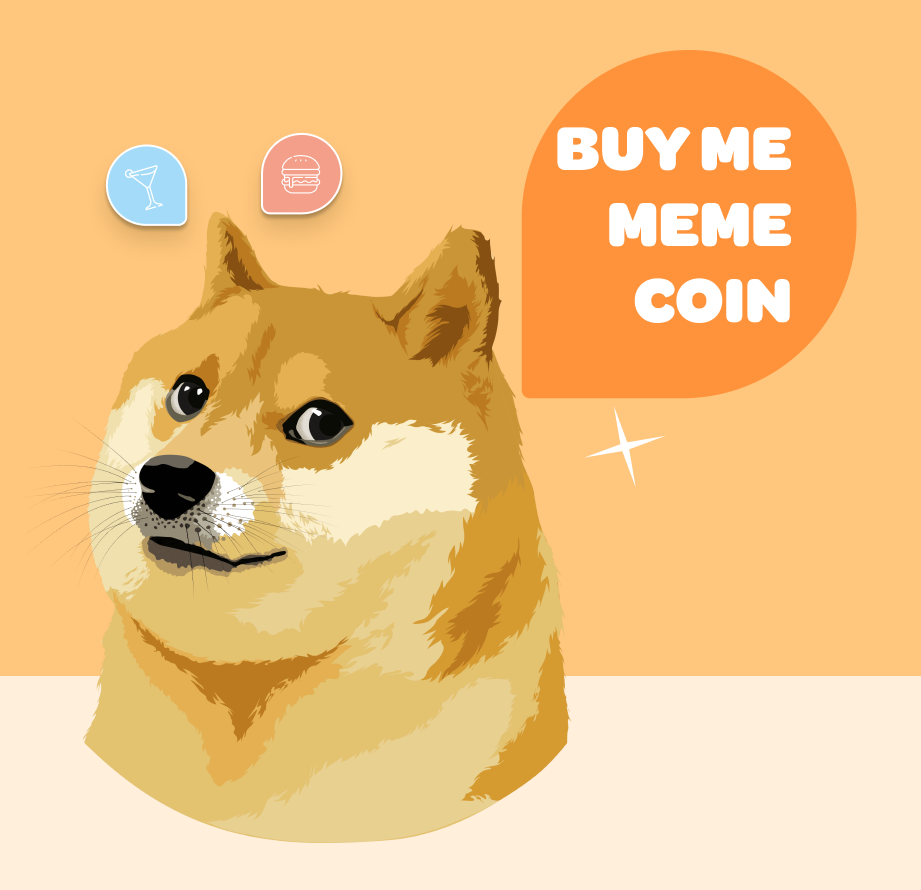
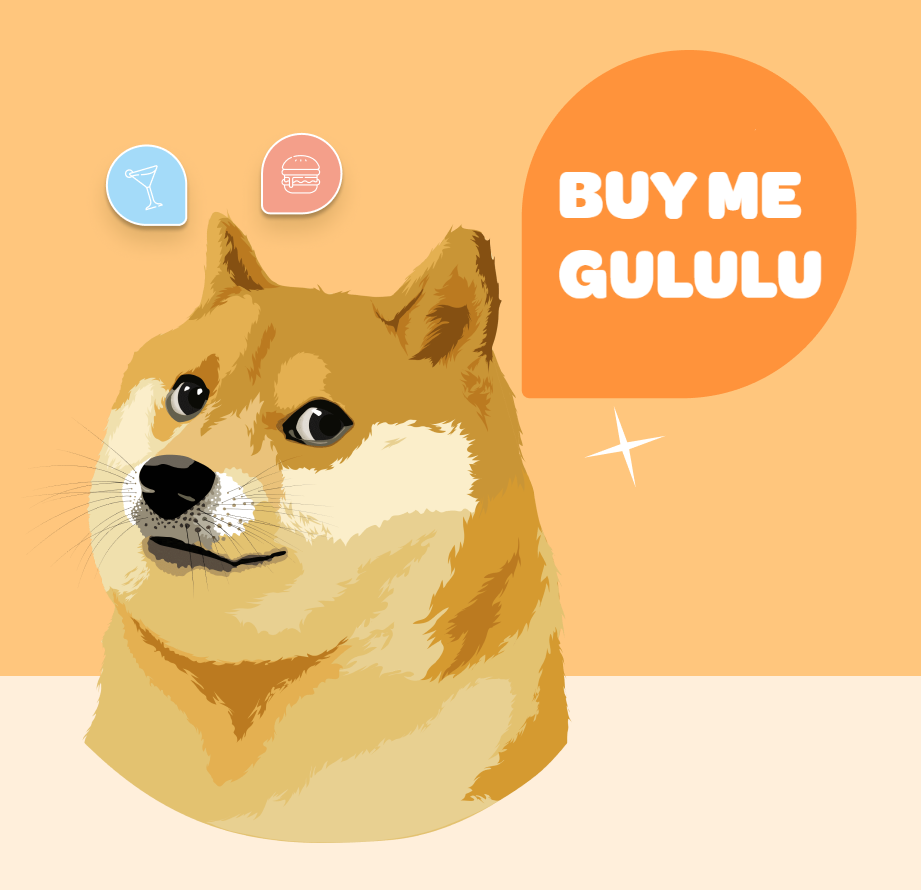
responsiveness

Changed region(s): [[0.5776, 0.1213, 0.9121, 0.364]]

diff --git a/components/pages/section4.js b/components/pages/section4.js
@@ -10,9 +10,9 @@ const Section4 = () => {
           <div className="relative flex flex-col bg-[#CFEEFF] md:w-[40rem] rounded-3xl md:py-20 md:px-[5.8rem] sm:p-16 p-8 z-10">
             <h3 className="md:text-5xl text-4xl font-omnesblack uppercase pb-6">Stage 1</h3>
             <p className="md:text-xl text-lg font-omnesreg font-semibold">
-              Utilising smart contracts powered by Ethereum, DOGE20 is much more
+              Utilising smart contracts powered by Ethereum, GULULU is much more
               than a meme coin and brings passive earning potential to the
-              community. Harness the power of your DOGE20 tokens by staking and
+              community. Harness the power of your GULULU tokens by staking and
               earning rewards, making your tokens work for you.
             </p>
 
@@ -75,9 +75,9 @@ const Section4 = () => {
           <div className="relative flex flex-col bg-[#CFEEFF] md:w-[40rem] rounded-3xl md:py-20 md:px-[5.8rem] sm:p-16 p-8 z-10">
             <h3 className="md:text-5xl text-4xl font-omnesblack uppercase pb-6">Stage 2</h3>
             <p className="md:text-xl text-lg font-omnesreg font-semibold">
-              Utilising smart contracts powered by Ethereum, DOGE20 is much more
+              Utilising smart contracts powered by Ethereum, GULULU is much more
               than a meme coin and brings passive earning potential to the
-              community. Harness the power of your DOGE20 tokens by staking and
+              community. Harness the power of your GULULU tokens by staking and
               earning rewards, making your tokens work for you.
             </p>
 
@@ -140,9 +140,9 @@ const Section4 = () => {
           <div className="relative flex flex-col bg-[#CFEEFF] md:w-[40rem] rounded-3xl md:py-20 md:px-[5.8rem] sm:p-16 p-8 z-10">
             <h3 className="md:text-5xl text-4xl font-omnesblack uppercase pb-6">Stage 3</h3>
             <p className="md:text-xl text-lg font-omnesreg font-semibold">
-              Utilising smart contracts powered by Ethereum, DOGE20 is much more
+              Utilising smart contracts powered by Ethereum, GULULU is much more
               than a meme coin and brings passive earning potential to the
-              community. Harness the power of your DOGE20 tokens by staking and
+              community. Harness the power of your GULULU tokens by staking and
               earning rewards, making your tokens work for you.
             </p>
             <Image
@@ -197,9 +197,9 @@ const Section4 = () => {
           <div className="relative flex flex-col bg-[#CFEEFF] md:w-[40rem] rounded-3xl md:py-20 md:px-[5.8rem] sm:p-16 p-8 z-10">
             <h3 className="md:text-5xl text-4xl font-omnesblack uppercase pb-6">Stage 4</h3>
             <p className="md:text-xl text-lg font-omnesreg font-semibold">
-              Utilising smart contracts powered by Ethereum, DOGE20 is much more
+              Utilising smart contracts powered by Ethereum, GULULU is much more
               than a meme coin and brings passive earning potential to the
-              community. Harness the power of your DOGE20 tokens by staking and
+              community. Harness the power of your GULULU tokens by staking and
               earning rewards, making your tokens work for you.
             </p>
 

diff --git a/components/pages/section2.js b/components/pages/section2.js
@@ -6,11 +6,11 @@ const Section2 = () => {
     <div className="flex flex-col  xl:px-24 px-8 py-[4.8rem] items-center justify-center bg-[#FFC8BA]">
       <div className="flex flex-col items-center justify-center">
         <div className="md:text-5xl text-4xl text-center font-omnes uppercase">
-          Our Doge just got more rewarding
+          Our GULULU just got more rewarding
         </div>
         <div className="text-xl font-semibold text-center font-omnesreg py-[2.8rem] xl:px-64 md:px-12 px-2">
-         <p> Prepare for the ultimate Doge upgrade! We&apos;re sending Elon&apos;s fave
-          towards a more sustainable future. Stake DOGE20 today to start earning
+         <p> Prepare for the ultimate GULULU upgrade! We&apos;re sending Elon&apos;s fave
+          towards a more sustainable future. Stake GULULU today to start earning
           eco-friendly rewards.
           </p>
         </div>
@@ -63,9 +63,9 @@ const Section2 = () => {
                 Good Boy Staking!
               </h3>
               <p className="text-xl font-omensreg font-bold ">
-                Utilising smart contracts powered by Ethereum, DOGE20 is much
+                Utilising smart contracts powered by Ethereum, GULULU is much
                 more than a meme coin and brings passive earning potential to
-                the community. Harness the power of your DOGE20 tokens by
+                the community. Harness the power of your GULULU tokens by
                 staking and earning rewards, making your tokens work for you.
               </p>
             </div>
@@ -109,9 +109,9 @@ const Section2 = () => {
                 Good Boy Staking!
               </h3>
               <p className="text-xl font-omensreg font-bold ">
-                Utilising smart contracts powered by Ethereum, DOGE20 is much
+                Utilising smart contracts powered by Ethereum, GULULU is much
                 more than a meme coin and brings passive earning potential to
-                the community. Harness the power of your DOGE20 tokens by
+                the community. Harness the power of your GULULU tokens by
                 staking and earning rewards, making your tokens work for you.
               </p>
             </div>
@@ -155,9 +155,9 @@ const Section2 = () => {
                 Good Boy Staking!
               </h3>
               <p className="text-xl font-omensreg font-bold ">
-                Utilising smart contracts powered by Ethereum, DOGE20 is much
+                Utilising smart contracts powered by Ethereum, GULULU is much
                 more than a meme coin and brings passive earning potential to
-                the community. Harness the power of your DOGE20 tokens by
+                the community. Harness the power of your GULULU tokens by
                 staking and earning rewards, making your tokens work for you.
               </p>
             </div>

diff --git a/components/pages/section1.js b/components/pages/section1.js
@@ -45,7 +45,7 @@ const Section1 = () => {
                 className=" absolute sm:w-20 w-14 sm:-left-0 -left-14 sm:top-0 top-8 "
               />
               <h1 className="md:text-[3.5rem] sm:text-5xl text-[2.3rem] text-center font-omnesblack sm:pb-7 sm:leading-[4.7rem]">
-                HI, MY NAME IS <br /> MEMECOIN
+                HI, MY NAME IS <br /> GULULU
               </h1>
             </div>
 
@@ -60,24 +60,24 @@ const Section1 = () => {
           <div className="flex flex-col justify-between ">
             <div>
               <h3 className="sm:px-24 px-4 font-omnes text-center leading-7 text-2xl ">
-                MEMECOIN launches on doge day! Last <br /> chance to buy!
+                GULULU launches on doge day! Last <br /> chance to buy!
               </h3>
               <Countdown />
               <h3 className="text-center text-xl font-omnes font-bold my-6 ">
-                Till DOGE20 claim and launch
+                Till GULULU claim and launch
               </h3>
               <h3 className="text-center text-2xl font-omnesblack leading-3 my-3">
                 Over $10M raised!
               </h3>
               <div className="flex items-center justify-center sm:gap-6 gap-2 sm:ml-8 ml-2 ">
                 <h3 className="text-center text-xl font-omnes my-3 font-bold ">
-                  Your purchased DOGE20 = 0
+                  Your purchased GULULU = 0
                 </h3>
                 <Image src={"/i.svg"} alt="i" width={22} height={22} className=" w-7"/>
               </div>
               <div className="flex items-center justify-center sm:gap-6 gap-2 sm:ml-8 ml-2">
                 <h3 className="text-center text-xl font-omnes my-1 font-bold ">
-                  Your stakeable DOGE20 = 0
+                  Your stakeable GULULU = 0
                 </h3>
                 <Image src={"/i.svg"} alt="i" width={22} height={22}  className=" w-7"/>
               </div>

diff --git a/components/pages/section9.js b/components/pages/section9.js
@@ -9,8 +9,8 @@ const Section9 = () => {
       </div>
 
       <p className="text-xl font-semibold text-center font-omnesreg pb-[4rem] xl:px-[20rem] px-4">
-        Dogecoin20 offers a new passive rewards opportunity to the meme coin
-        scene but could also benefit from token price appreciation. DOGE20 has a
+        GULULU offers a new passive rewards opportunity to the meme coin
+        scene but could also benefit from token price appreciation. GULULU has a
         fully diluted starting market cap nearly 900 times cheaper than the
         original Dogecoin.
       </p>
@@ -18,7 +18,7 @@ const Section9 = () => {
       <div className="bg-[#CFEEFF] lg:w-[62.5rem] w-[90%] rounded-3xl text-center py-10 flex flex-col items-center justify-center px-3">
         <h3 className="text-2xl font-omnes">Returns Calculator</h3>
         <h3 className="text-xl font-omnesreg font-semibold py-2 md:px-28">
-          Input the amount of DOGE20 you&apos;re purchasing, and see what it
+          Input the amount of GULULU you&apos;re purchasing, and see what it
           would be worth at different prices.
         </h3>
         <div className=" lg:w-[75%] w-[90%] flex flex-col  justify-center">
@@ -39,7 +39,7 @@ const Section9 = () => {
             </div>
           </div>
           <div className="text-[#667CC1] text-xl font-omnes flex flex-row justify-between items-center px-1 uppercase py-2">
-            <h3 className="w-1/4 text-left">Your $DOGE20 would be worth</h3>
+            <h3 className="w-1/4 text-left">Your $GULULU would be worth</h3>
             <h3>$470</h3>
           </div>
         </div>

diff --git a/components/pages/section6.js b/components/pages/section6.js
@@ -7,10 +7,10 @@ const Section6 = () => {
       <div className="md:text-5xl text-3xl text-center font-omnes py-4 ">Tokenomics</div>
       <div className="md:text-xl text-base font-semibold text-center font-omnesreg">
         <p className="pb-3">
-          DOGE20 tokenomics include smart staking rewards, meaning you can earn
+          GULULU tokenomics include smart staking rewards, meaning you can earn
           right away.
         </p>
-        <p>DOGE20 Token Address:</p>
+        <p>GULULU Token Address:</p>
         <p className="font-omnes pt-1">
           0x2541A36BE4cD39286ED61a3E6AFC2307609d6
         </p>
@@ -36,7 +36,7 @@ const Section6 = () => {
           />
           <div className="flex flex-col gap-9">
             <h3 className="text-[#667CC1] font-omnes sm:text-5xl text-3xl uppercase">
-              $MEMECOIN Tokenomics
+              $GULULU Tokenomics
             </h3>
             <h3 className="text-black font-omnesreg font-semibold text-xl sm:text-2xl">
               Total Supply 1 billion

diff --git a/components/pages/section5.js b/components/pages/section5.js
@@ -8,8 +8,8 @@ const Section5 = () => {
       <div className="text-5xl text-center font-omnes py-5">REFERRAL</div>
       <div className="relative text-xl font-semibold text-center font-omnesreg xl:px-[20rem] px-4">
         <p>
-          Dogecoin20 offers a new passive rewards opportunity to the meme coin
-          scene but could also benefit from token price appreciation. DOGE20 has
+          GULULU offers a new passive rewards opportunity to the meme coin
+          scene but could also benefit from token price appreciation. GULULU has
           a fully diluted starting market cap nearly 900 times cheaper than the
           original Dogecoin.
         </p>

diff --git a/components/pages/section7.js b/components/pages/section7.js
@@ -7,7 +7,7 @@ const Section7 = () => {
       <div className="relative flex flex-col xl:w-[75rem] bg-black justify-start items-center lg:p-10  ">
         <div className="flex  text-white flex-col items-start justify-start xl:w-[60%] xl:mt-24 xl:p-0 sm:p-28 p-12 ">
           <h3 className=" font-omnesblack text-white md:text-[4.5rem] text-3xl  uppercase leading-[5rem] pb-14">
-            Buy me MEMECOIN
+            Buy me GULULU
           </h3>
           <p className="font-omnesreg font-bold md:text-[1.6rem] text-lg tracking-wider">
             Install a Solana Wallet: Choose a wallet like Phantom, download, and

diff --git a/components/pages/section8.js b/components/pages/section8.js
@@ -6,7 +6,7 @@ const Section8 = () => {
     <div className="relative bg-[#F7E8D5] py-24 ">
       <div className="relative z-10">
         <h3 className=" font-omnesblack text-black text-center text-[3.5rem] uppercase leading-[5rem] pb-14">
-          Buy me $MEMECOIN
+          Buy me $GULULU
         </h3>
         <div className="flex flex-row flex-wrap items-center justify-center gap-9">
           <div className="flex flex-col items-start justify-start md:h-[34rem] bg-white rounded-md p-5">

diff --git a/components/header/Header.js b/components/header/Header.js
@@ -13,7 +13,7 @@ const Header = () => {
   return (
     <div className="bg-[#F7E8D5]">
       <div className="flex items-center xl:px-44 p-4 pt-10 justify-between">
-        <div className="text-3xl font-black font-omnesblack">MEMECOIN</div>
+        <div className="text-3xl font-black font-omnesblack">GULULU</div>
         <div className="md:hidden">
           <button
             onClick={toggleMenu}

diff --git a/app/layout.tsx b/app/layout.tsx
@@ -4,7 +4,7 @@ import "./globals.css";
 
 
 export const metadata: Metadata = {
-  title: "Memecoin",
+  title: "GULULU",
   description: "-",
 };
 
